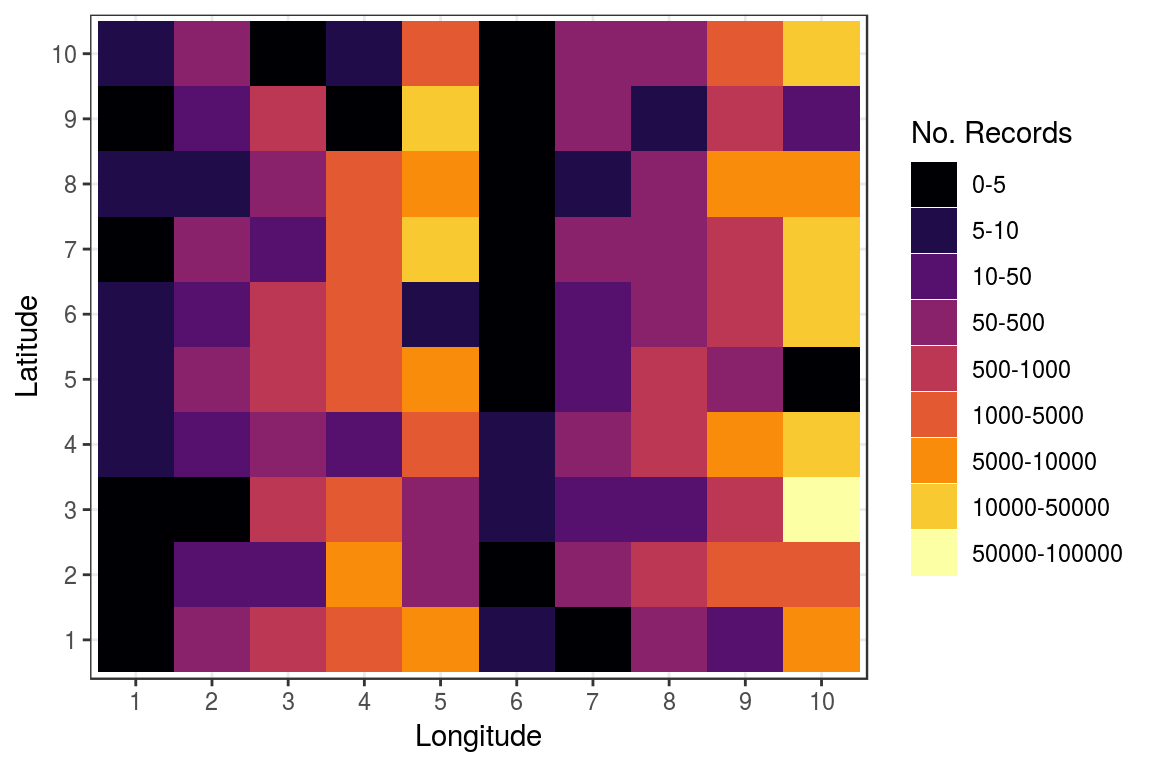
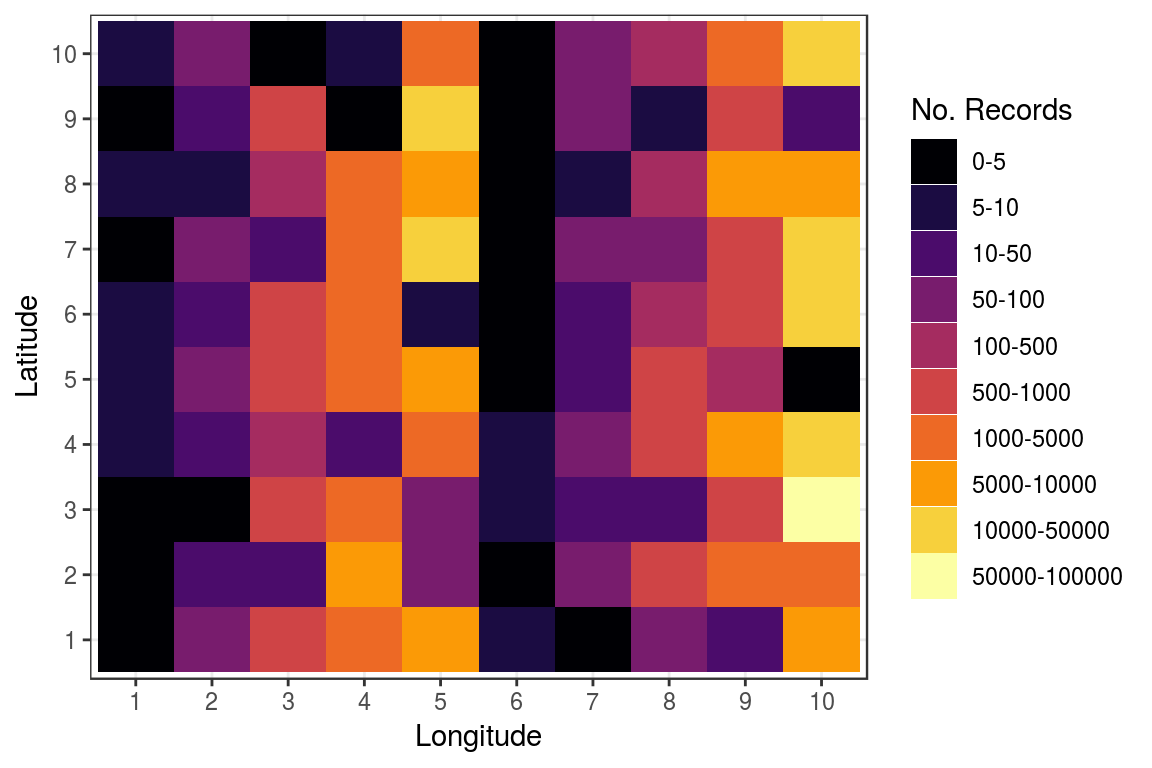
Tweaks to the plot

diff --git a/content/post/2018-08-14-quarrelling-with-hugo.html b/content/post/2018-08-14-quarrelling-with-hugo.html
@@ -34,15 +34,21 @@ a &lt;- round(runif(100, 1, 10)^seq(1, 5, by = 1), 0)
 df &lt;- data.frame(
   lat = as.factor(sapply(1:10, function(x) rep(x, 10))), 
   long = as.factor(seq(1, 10)), count = as.integer(a))</code></pre>
-<p>My scale breaks aren’t truly logarithmic, because I wanted them to be relatively friendly to look at.</p>
-<pre class="r"><code>scale_breaks &lt;- c(5, 10, 50, 500, 1000, 5000, 10000, 50000, 100000)
+<p>My scale breaks aren’t truly logarithmic, because I wanted them to be relatively comprehensible.</p>
+<pre class="r"><code># Not quite a true logarithmic scale, but easily comprehensible
+scale_breaks &lt;- as.vector(
+  sapply(10^seq(0, 5, by = 1), function(y) c(5, 10) * y))
+# Make labels for the plot legend
 scale_labels &lt;- c(paste0(0, &quot;-&quot;, scale_breaks[1]), 
   sapply(seq(2, length(scale_breaks)), 
   function(x) paste0(scale_breaks[x-1], &quot;-&quot;, scale_breaks[x])))
+# Bin the data
 df$binned_count &lt;- cut(df$count, breaks = c(0, scale_breaks), 
   labels = scale_breaks)</code></pre>
 <p>Theme <strong>inferno</strong>’s fairly loud, but why not? I’m just messing around.</p>
-<pre class="r"><code>heatplot &lt;- ggplot(df, aes(x = long, y = lat, fill = binned_count)) +
+<pre class="r"><code># Maybe adding a comment line or two will keep &#39;heatplot&#39; in the 
+# right place in the chunk output
+heatplot &lt;- ggplot(df, aes(x = long, y = lat, fill = binned_count)) +
   geom_tile() +
   xlab(&quot;Longitude&quot;) +
   ylab(&quot;Latitude&quot;) +
@@ -50,7 +56,7 @@ df$binned_count &lt;- cut(df$count, breaks = c(0, scale_breaks),
     breaks = c(scale_breaks), 
     labels = scale_labels, 
     guide = &quot;legend&quot;, option = &quot;inferno&quot;, discrete = TRUE) </code></pre>
-<div class="figure">
+<div class="figure" style="text-align: center">
 <img src="/post/2018-08-14-quarrelling-with-hugo_files/figure-html/plotThePlot-1.png" alt="Plot to demonstrate non-linear binning of spatial count data" width="576" />
 <p class="caption">
 (#plotThePlot)Plot to demonstrate non-linear binning of spatial count data
